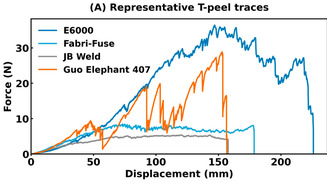
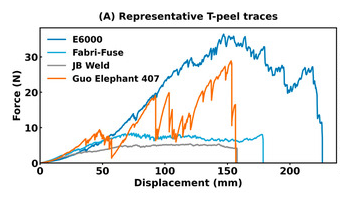
Add detail-page figures and method schematics
- Recrop Figure 2A to keep the full plot frame, with an even margin.
- Drop the duplicate source-code link from the homepage figure. The
  software card already links the release.
- Add a figures block to publication pages. Entries render only when
  their image exists: Fig. 2A now, Figs. 4, 5 and the 2025 SEM figure
  once the files are added.
- Add a method-schematic shortcode in the research-signature style and
  use it for the optical metrology sequence and the Peel Trace workflow.

Claude-Session: https://claude.ai/code/session_01WgbeUxZoDwuEPLqvRFby2U

Changed region(s): [[0.0, 0.0, 1.0, 0.9375]]

diff --git a/static/css/refinements.css b/static/css/refinements.css
@@ -188,7 +188,7 @@ html[data-analytics-consent="unknown"] .privacy-banner+main .page-shell{padding-
 
 /* Research figure: published or schematic evidence with its credit beside it. */
 .research-figure{margin:0}
-.research-package>.research-figure{grid-column:1/-1;display:grid;grid-template-columns:minmax(0,1.1fr) minmax(0,.9fr);gap:clamp(1.5rem,3vw,2.5rem);align-items:start;padding:clamp(1.5rem,3vw,2.5rem) clamp(2rem,4vw,3.4rem);border-top:1px solid var(--line)}
+.research-package>.research-figure{grid-column:1/-1;display:grid;grid-template-columns:auto minmax(0,1fr);gap:clamp(1.5rem,3vw,2.5rem);align-items:start;padding:clamp(1.5rem,3vw,2.5rem) clamp(2rem,4vw,3.4rem);border-top:1px solid var(--line)}
 .research-figure__media{display:block;width:fit-content;max-width:100%;border:1px solid var(--line);background:#fff}
 .research-figure__media img{display:block;max-width:100%;height:auto}
 .research-figure figcaption{margin-top:0}
@@ -197,3 +197,24 @@ html[data-analytics-consent="unknown"] .privacy-banner+main .page-shell{padding-
 .research-figure figcaption small{display:block;margin-top:.55rem;color:var(--ink-soft);font-size:.8rem;line-height:1.5}
 .research-figure figcaption .actions{margin-top:.8rem}
 @media(max-width:980px){.research-package>.research-figure{grid-template-columns:1fr}}
+
+/* Method schematic: explanatory step sequence for project pages, in the research-signature style. */
+.method-schematic{margin:1.75rem 0 2rem;padding:1.2rem 0 1rem;border-block:1px solid var(--line)}
+.method-schematic__desktop svg{display:block;width:100%;height:auto}
+.method-schematic__rail{fill:none;stroke:var(--line-strong);stroke-width:1.5}
+.method-schematic__arrowhead{fill:var(--teal)}
+.method-schematic__node{fill:var(--surface);stroke:var(--teal);stroke-width:1.6}
+.method-schematic__stage text{fill:var(--ink);font-family:var(--sans);font-size:13px;font-weight:700;letter-spacing:.06em;text-transform:uppercase}
+.method-schematic__stage .method-schematic__number{fill:var(--rust);font-family:var(--mono);font-size:12px;font-weight:400;letter-spacing:0}
+.method-schematic__mobile{display:none;margin:0;padding:0;list-style:none;border-top:1px solid var(--line)}
+.method-schematic__mobile li{display:grid;grid-template-columns:3rem minmax(0,1fr);align-items:center;gap:1rem;padding:.75rem 0;border-bottom:1px solid var(--line)}
+.method-schematic__mobile span{color:var(--rust);font-family:var(--mono);font-size:.72rem}
+.method-schematic__mobile strong{font-family:var(--sans);font-size:.88rem;letter-spacing:.04em;text-transform:uppercase}
+.method-schematic figcaption{margin-top:.85rem;color:var(--ink-soft);font-size:.92rem;line-height:1.55}
+.method-schematic__note{font-family:var(--sans);font-size:.76rem;letter-spacing:.02em}
+@media(max-width:820px){.method-schematic__desktop{display:none}.method-schematic__mobile{display:grid}}
+
+/* Figures on detail pages. */
+.figure-block{margin-top:2.5rem}
+.figure-block .research-figure+.research-figure{margin-top:2.25rem;padding-top:2rem;border-top:1px solid var(--line)}
+.figure-block .research-figure figcaption{margin-top:.9rem}

diff --git a/layouts/shortcodes/method-schematic.html b/layouts/shortcodes/method-schematic.html
@@ -1,0 +1,31 @@
+{{/* Explanatory step schematic. Params: id, title, steps ("A|B|C", "~" breaks a label onto two lines), caption. Never carries quantitative data. */}}
+{{ $id := .Get "id" }}
+{{ $steps := split (.Get "steps") "|" }}
+{{ $n := len $steps }}
+{{ $x0 := 90.0 }}{{ $x1 := 910.0 }}
+{{ $gap := div (sub $x1 $x0) (sub $n 1) }}
+<figure class="method-schematic" aria-labelledby="{{ $id }}-caption">
+  <div class="method-schematic__desktop">
+    <svg viewBox="0 0 1000 200" role="img" aria-labelledby="{{ $id }}-title {{ $id }}-desc" preserveAspectRatio="xMidYMid meet">
+      <title id="{{ $id }}-title">{{ .Get "title" }}</title>
+      <desc id="{{ $id }}-desc">A schematic sequence: {{ delimit (apply $steps "replace" "." "~" " ") ", " }}. It is explanatory and does not represent measured data.</desc>
+      <defs>
+        <marker id="{{ $id }}-arrow" viewBox="0 0 8 8" refX="7" refY="4" markerWidth="7" markerHeight="7" orient="auto-start-reverse">
+          <path d="M0 0 L8 4 L0 8 Z" class="method-schematic__arrowhead" />
+        </marker>
+      </defs>
+      <path class="method-schematic__rail" d="M{{ $x0 }} 70 H{{ add $x1 4 }}" marker-end="url(#{{ $id }}-arrow)" />
+      {{ range $i, $step := $steps }}
+      <g class="method-schematic__stage" transform="translate({{ add $x0 (mul $gap $i) }} 70)">
+        <circle r="23" class="method-schematic__node" />
+        <text class="method-schematic__number" x="0" y="5" text-anchor="middle">{{ printf "%02d" (add $i 1) }}</text>
+        {{ range $j, $line := split $step "~" }}<text x="0" y="{{ add 58 (mul $j 18) }}" text-anchor="middle">{{ $line }}</text>{{ end }}
+      </g>
+      {{ end }}
+    </svg>
+  </div>
+  <ol class="method-schematic__mobile" aria-label="{{ .Get "title" }}">
+    {{ range $i, $step := $steps }}<li><span>{{ printf "%02d" (add $i 1) }}</span><strong>{{ replace $step "~" " " }}</strong></li>{{ end }}
+  </ol>
+  <figcaption id="{{ $id }}-caption">{{ .Get "caption" }} <span class="method-schematic__note">Schematic; no quantitative data are implied.</span></figcaption>
+</figure>

diff --git a/layouts/landing/list.html b/layouts/landing/list.html
@@ -74,7 +74,7 @@
       <article><span>Associated thesis</span><h4>Multi-Criteria Selection of Adhesives for Wearable Textiles</h4><p>VCU M.S. thesis · defended July 1, 2026 · degree completed August 2026</p><a class="lnk" href="{{ "/publication/masters-thesis/" | relURL }}">Thesis record <span class="arw" aria-hidden="true">→</span></a></article>
       <article><span>Research software</span><h4>{{ $p.software.title }}</h4><p>{{ $p.software.text }}</p><div class="actions"><a class="lnk" href="{{ $p.software.detail | relURL }}">Software details <span class="arw" aria-hidden="true">→</span></a><a class="lnk" href="{{ $p.software.version_doi }}" target="_blank" rel="noopener">Software release <span class="arw" aria-hidden="true">↗</span></a></div></article>
     </div>
-    {{ with $primary.figure }}{{ if fileExists (printf "static/%s" .src) }}{{ partial "research_figure.html" (dict "figure" . "data" .data "code" $primary.code) }}{{ end }}{{ end }}
+    {{ with $primary.figure }}{{ if fileExists (printf "static/%s" .src) }}{{ partial "research_figure.html" (dict "figure" . "data" .data) }}{{ end }}{{ end }}
   </article>
   <article class="secondary-output">
     <div><span class="overline">{{ $ip.status }} · {{ $ip.year }}</span><h3>{{ $ip.title }}</h3><p>{{ $ip.inventors }}</p><p class="venue">{{ $ip.organization }} · VCU Tech # {{ $ip.tech_id }}</p><p>{{ $ip.description }}</p></div>

diff --git a/layouts/publication/single.html b/layouts/publication/single.html
@@ -29,6 +29,8 @@
         {{ else }}
           {{ with .Params.abstract }}<section class="abstract-block"><h2>Abstract</h2><p>{{ . }}</p></section>{{ end }}
         {{ end }}
+        {{ $figures := slice }}{{ range .Params.figures }}{{ if fileExists (printf "static/%s" .src) }}{{ $figures = $figures | append . }}{{ end }}{{ end }}
+        {{ with $figures }}<section class="figure-block" id="figures"><h2>Figures</h2>{{ range . }}{{ partial "research_figure.html" (dict "figure" .) }}{{ end }}</section>{{ end }}
         {{ .Content }}
       </div>
       <aside class="citation-column">

diff --git a/content/publication/adhesives-wearable/index.md b/content/publication/adhesives-wearable/index.md
@@ -70,4 +70,32 @@ url_source: ''
 url_video: ''
 
 projects: []
+figures:
+  - src: media/research/polymers-2026-fig2a-peel-traces.png
+    width: 350
+    height: 203
+    evidence: Published figure
+    alt: Representative T-peel force-displacement traces for four adhesives. E6000 reaches the highest force but oscillates strongly, while Fabri-Fuse and JB Weld peel at lower, steadier force.
+    caption: Representative T-peel traces. The adhesive with the highest peak force also showed the largest oscillation during peeling.
+    credit: Figure 2A from Kantepalle, Epitawala Arachchige, Joung, and Tang, Polymers 2026, 18, 1504. © 2026 the authors. Cropped to panel A. No data or labels changed.
+    license: CC BY 4.0
+    license_url: https://creativecommons.org/licenses/by/4.0/
+  - src: media/research/polymers-2026-fig4-radar.png
+    width: 1200
+    height: 1000
+    evidence: Published figure
+    alt: Radar plot comparing four adhesives on fracture energy, displacement at break, peel stability, stick-slip suppression, and initiation repeatability, with larger values better on each axis.
+    caption: Multi-criteria comparison of the adhesives. The plot supports material selection for this application and is not an intrinsic ranking of the adhesives.
+    credit: Figure 4 from Kantepalle, Epitawala Arachchige, Joung, and Tang, Polymers 2026, 18, 1504. © 2026 the authors. No data or labels changed.
+    license: CC BY 4.0
+    license_url: https://creativecommons.org/licenses/by/4.0/
+  - src: media/research/polymers-2026-fig5-conductive-traces.png
+    width: 1200
+    height: 800
+    evidence: Published figure
+    alt: Printed conductive silver trace on fabric before and after stretching, a magnified view of the failed conductor, and a bar chart of strain to electrical failure for no adhesive, E6000, and Fabri-Fuse.
+    caption: Downstream check in a printed conductive trace. Strain to electrical failure was compared on bare fabric, E6000, and Fabri-Fuse (n = 3).
+    credit: Figure 5 from Kantepalle, Epitawala Arachchige, Joung, and Tang, Polymers 2026, 18, 1504. © 2026 the authors. No data or labels changed.
+    license: CC BY 4.0
+    license_url: https://creativecommons.org/licenses/by/4.0/
 ---

diff --git a/content/publication/electrospun-fiber-mats/index.md b/content/publication/electrospun-fiber-mats/index.md
@@ -85,4 +85,14 @@ projects: ''
 #   E.g. `slides: "example"` references `content/slides/example/index.md`.
 #   Otherwise, set `slides: ""`.
 slides: ''
+figures:
+  - src: media/research/polymers-2025-fig1-sem.png
+    width: 1200
+    height: 400
+    evidence: Published figure · co-authored
+    alt: Scanning electron micrographs of a single electrospun TPU layer, a single electrospun nylon layer, and a layered TPU-nylon structure, each with a 100 micrometer scale bar.
+    caption: Fiber morphology of single-layer TPU, single-layer nylon, and the layered TPU-nylon mat. Scale bars are 100 µm.
+    credit: Figure 1 from Caloian, Trapp, Kantepalle, Latimer, Lawton, and Tang, Polymers 2025, 17, 1777. © 2025 the authors. No data or labels changed.
+    license: CC BY 4.0
+    license_url: https://creativecommons.org/licenses/by/4.0/
 ---

diff --git a/content/project/peel-trace-evaluation/index.md b/content/project/peel-trace-evaluation/index.md
@@ -27,6 +27,8 @@ sample-level summaries.
 - sample-level and group-level outputs; and
 - versioned, citable analysis records.
 
+{{< method-schematic id="peel-trace-schematic" title="Peel Trace Evaluation workflow" steps="Force-displacement~traces|Reference~validation|Column and~profile mapping|Steady-peel~window|Peel-trace~descriptors|QC plots~and records" caption="The notebook blocks user-data analysis until the bundled Scotch Tape reference check passes, then extracts protocol-defined descriptors with provenance records." >}}
+
 ## Resources
 
 - [Source repository](https://github.com/VCU-Soft-Functional-Materials-Lab/Peel-Trace-Evaluation-for-Soft-Substrates)

diff --git a/content/project/optical-metrology/index.md b/content/project/optical-metrology/index.md
@@ -36,6 +36,8 @@ The workflow uses Python and OpenCV to:
 The method treats image acquisition, deformation tracking, and color analysis
 as one measurement sequence rather than as separate visual observations.
 
+{{< method-schematic id="optical-metrology-schematic" title="Optical metrology measurement sequence" steps="Synchronized~imaging|Deformation~tracking|Region~selection|CIE L*a*b*~conversion|Strain and color~comparison" caption="The workflow treats imaging, deformation tracking, and color analysis as one measurement sequence." >}}
+
 ## Presentations and outputs
 
 The work was presented in 2026 as **“Quantifying Mechanochromic Response in
